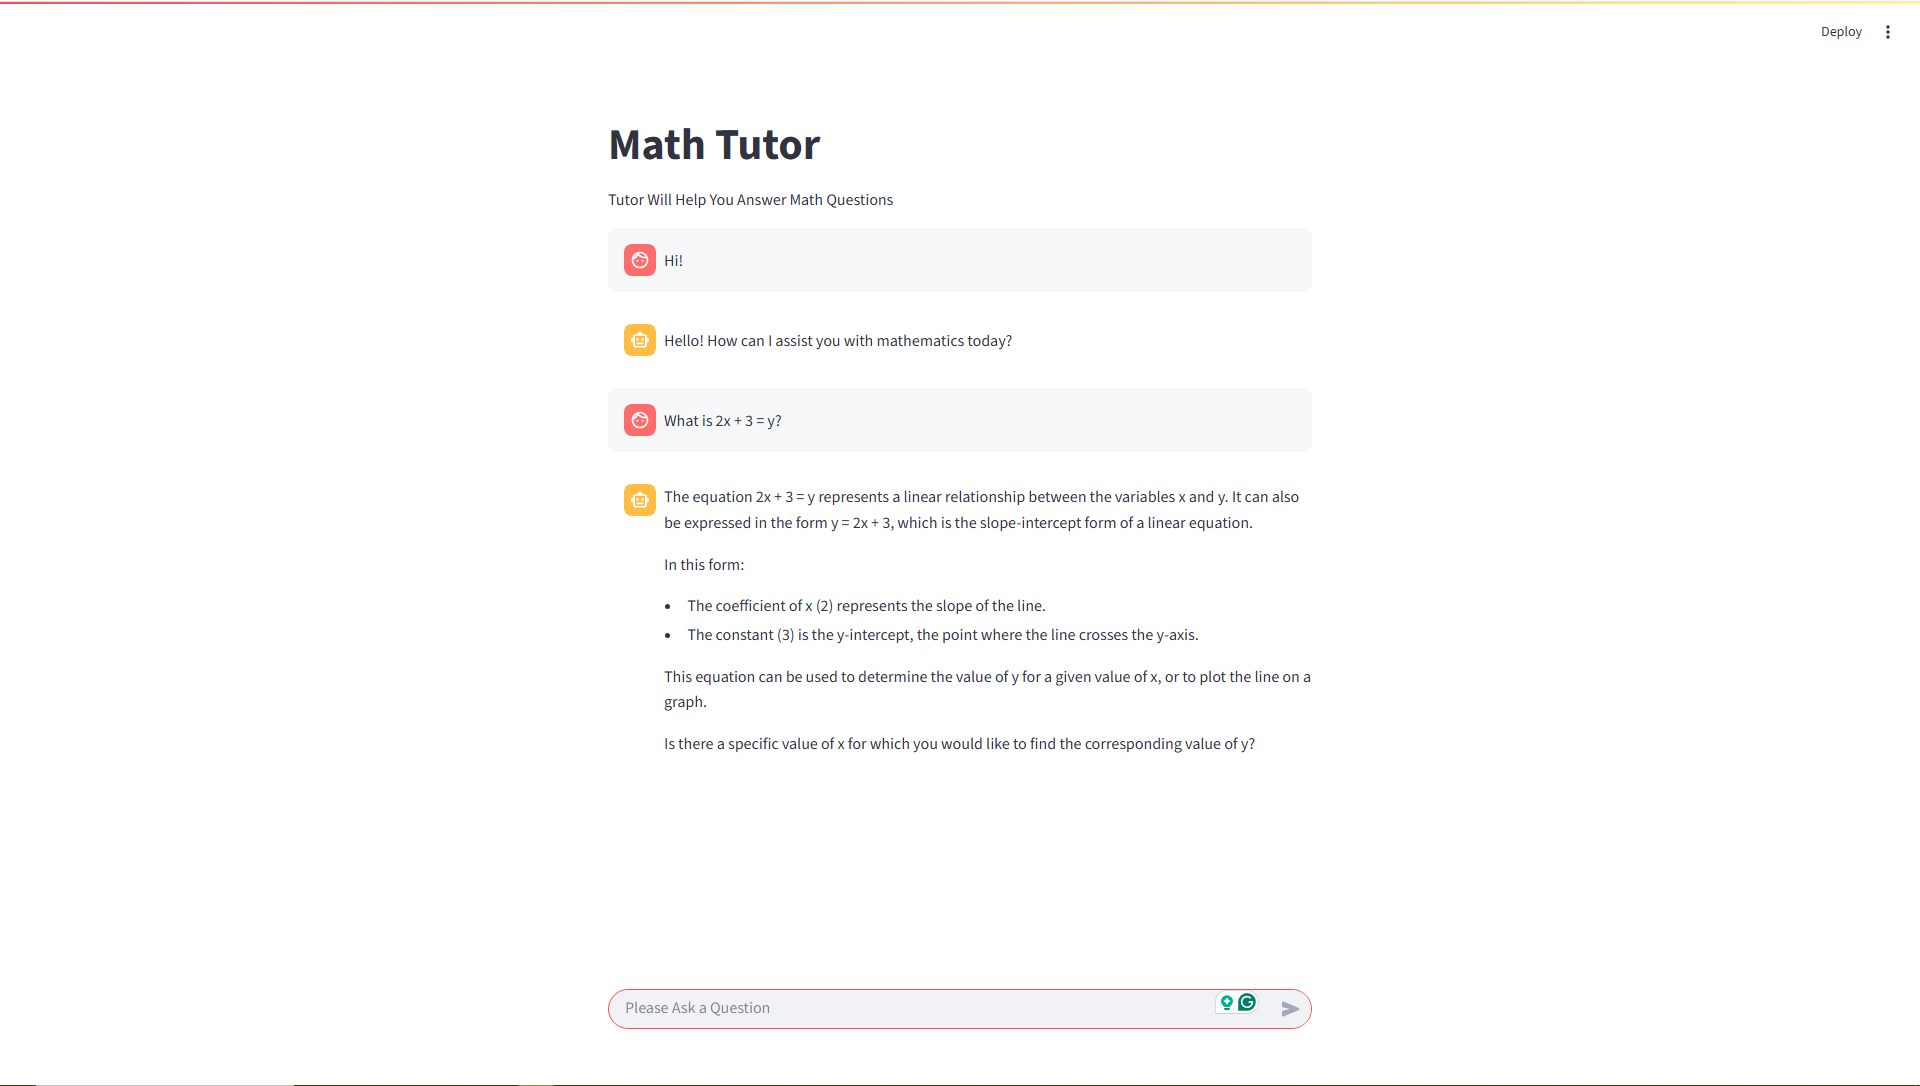
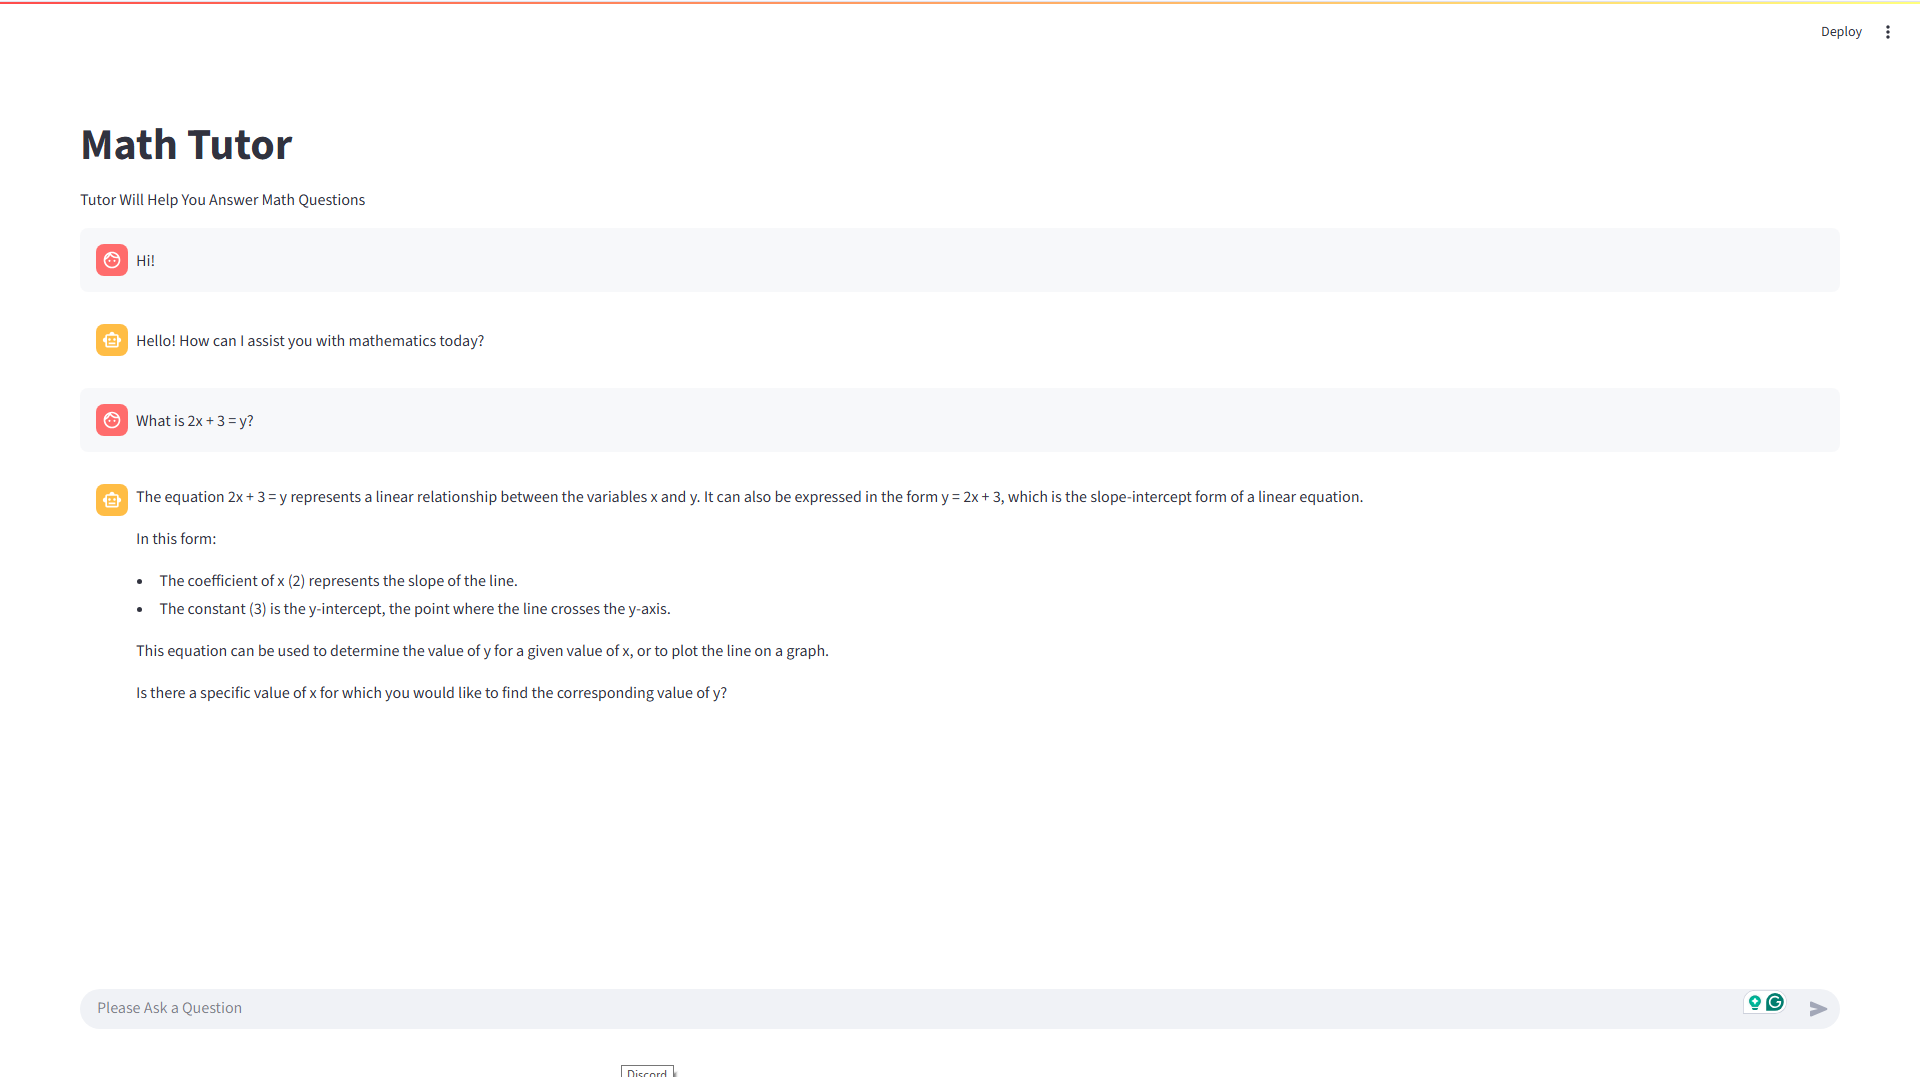
updated

diff --git a/08_streamlit_genai_apps/02_assistant_app/app.py b/08_streamlit_genai_apps/02_assistant_app/app.py
@@ -1,7 +1,7 @@
 import streamlit as st 
 from model import OpenAIBot, MessageItem
 
-st.set_page_config(page_title="Math Tutor", page_icon=":speech_balloon:")
+st.set_page_config(page_title="Math Tutor", page_icon=":speech_balloon:", layout="wide")
 
 st.title('Math Tutor')
 st.write("Tutor Will Help You Answer Math Questions")
